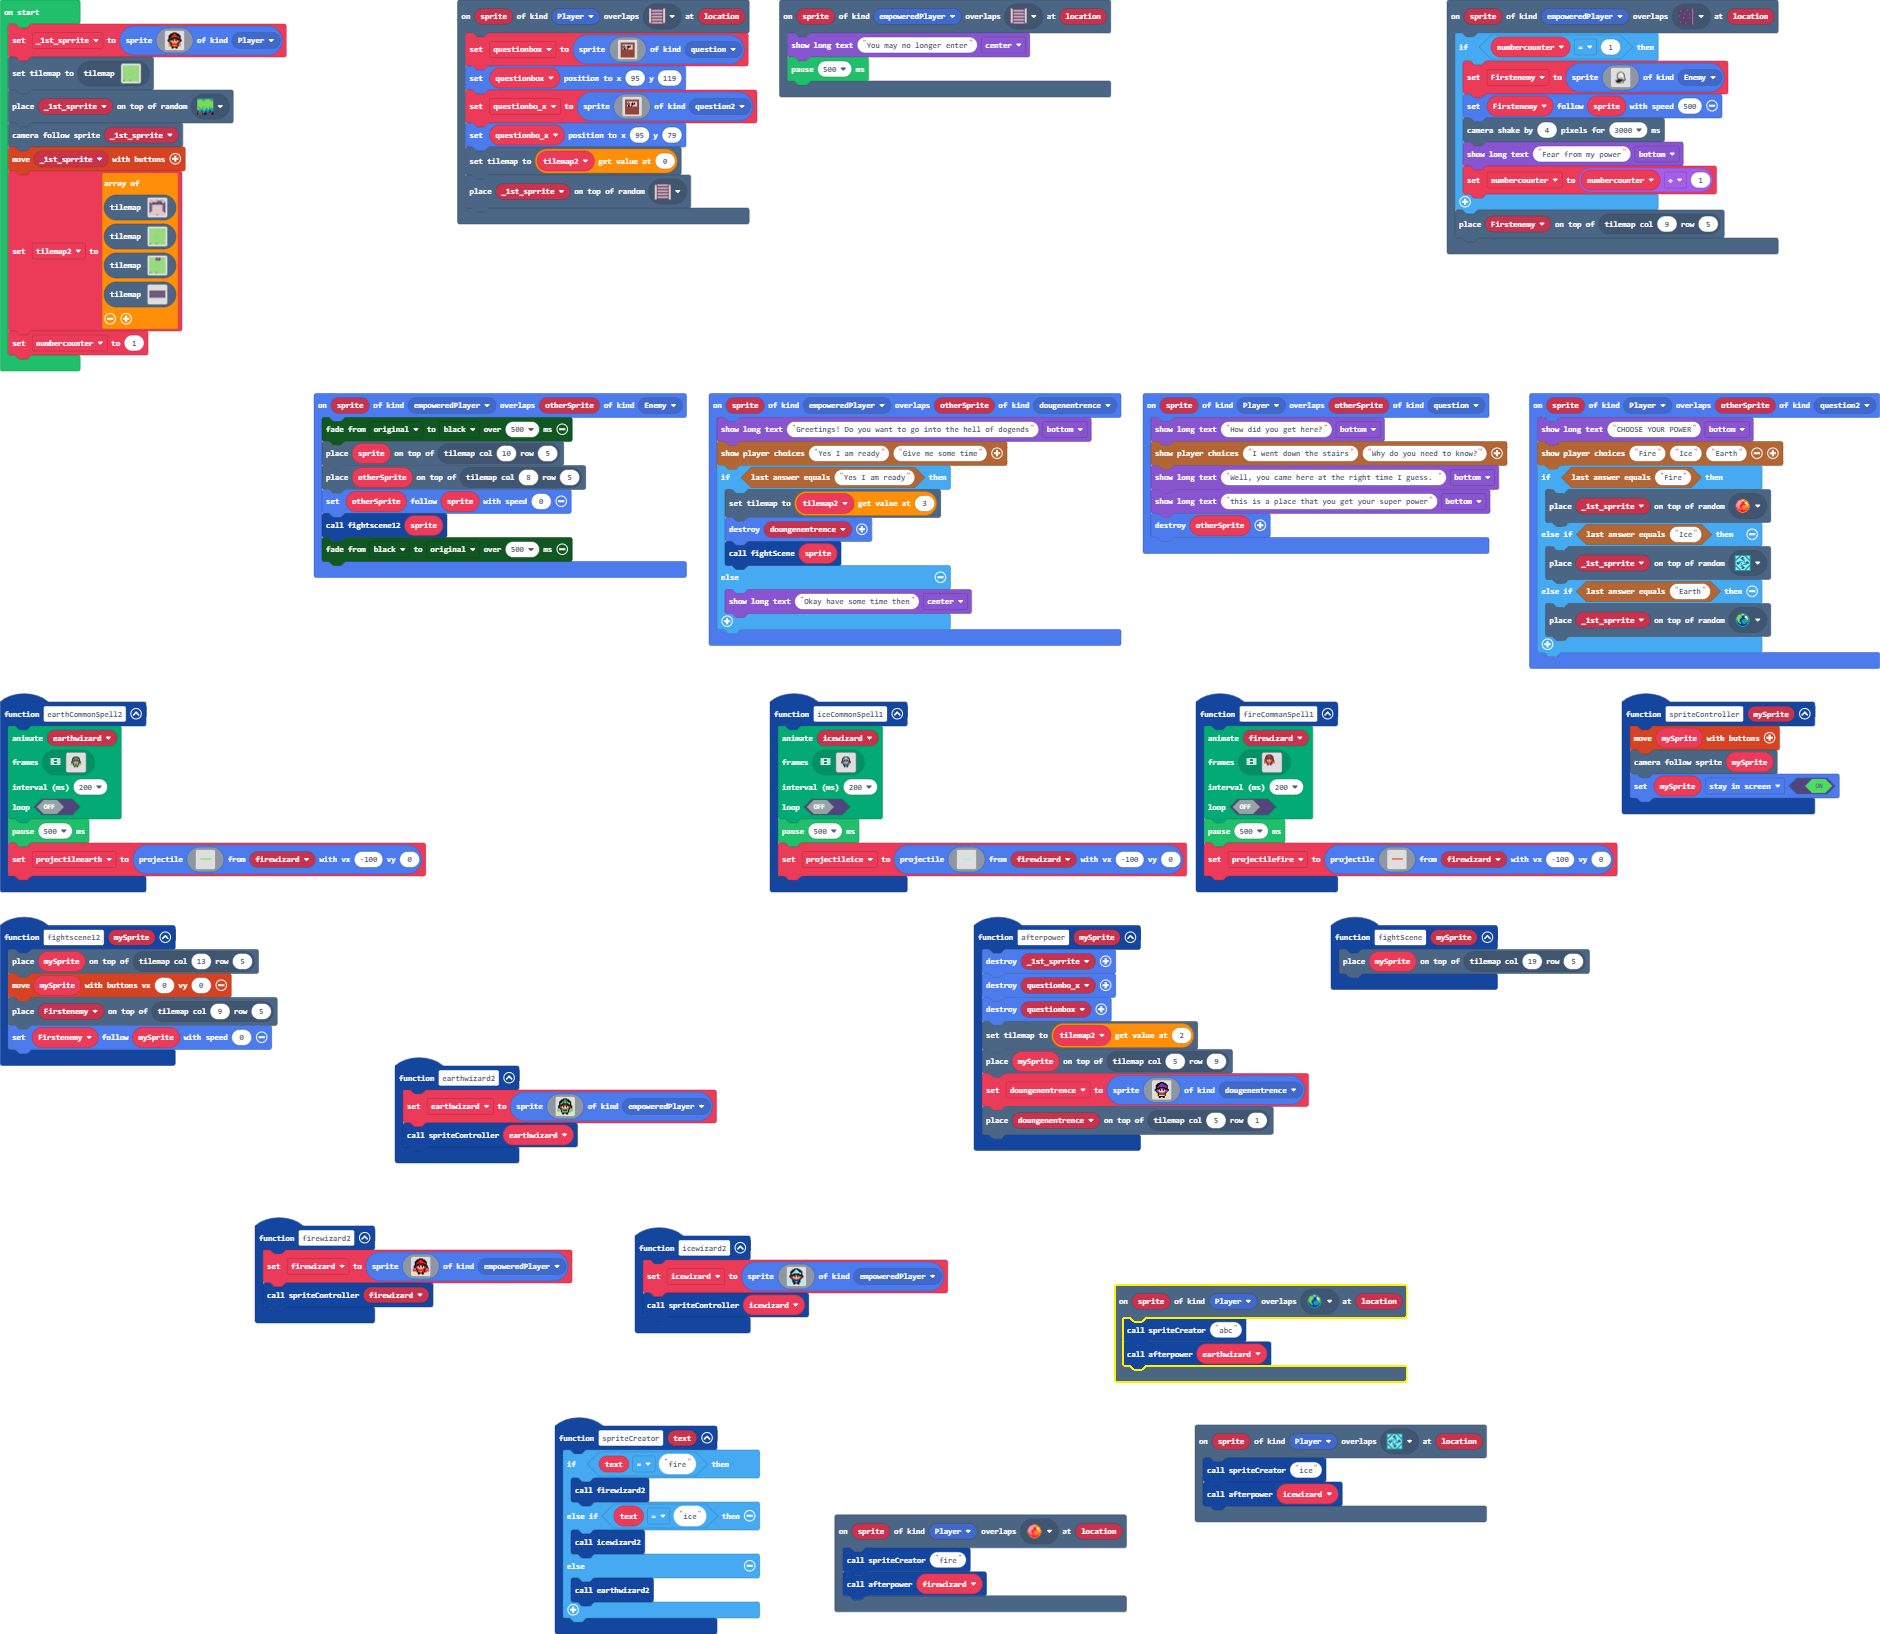
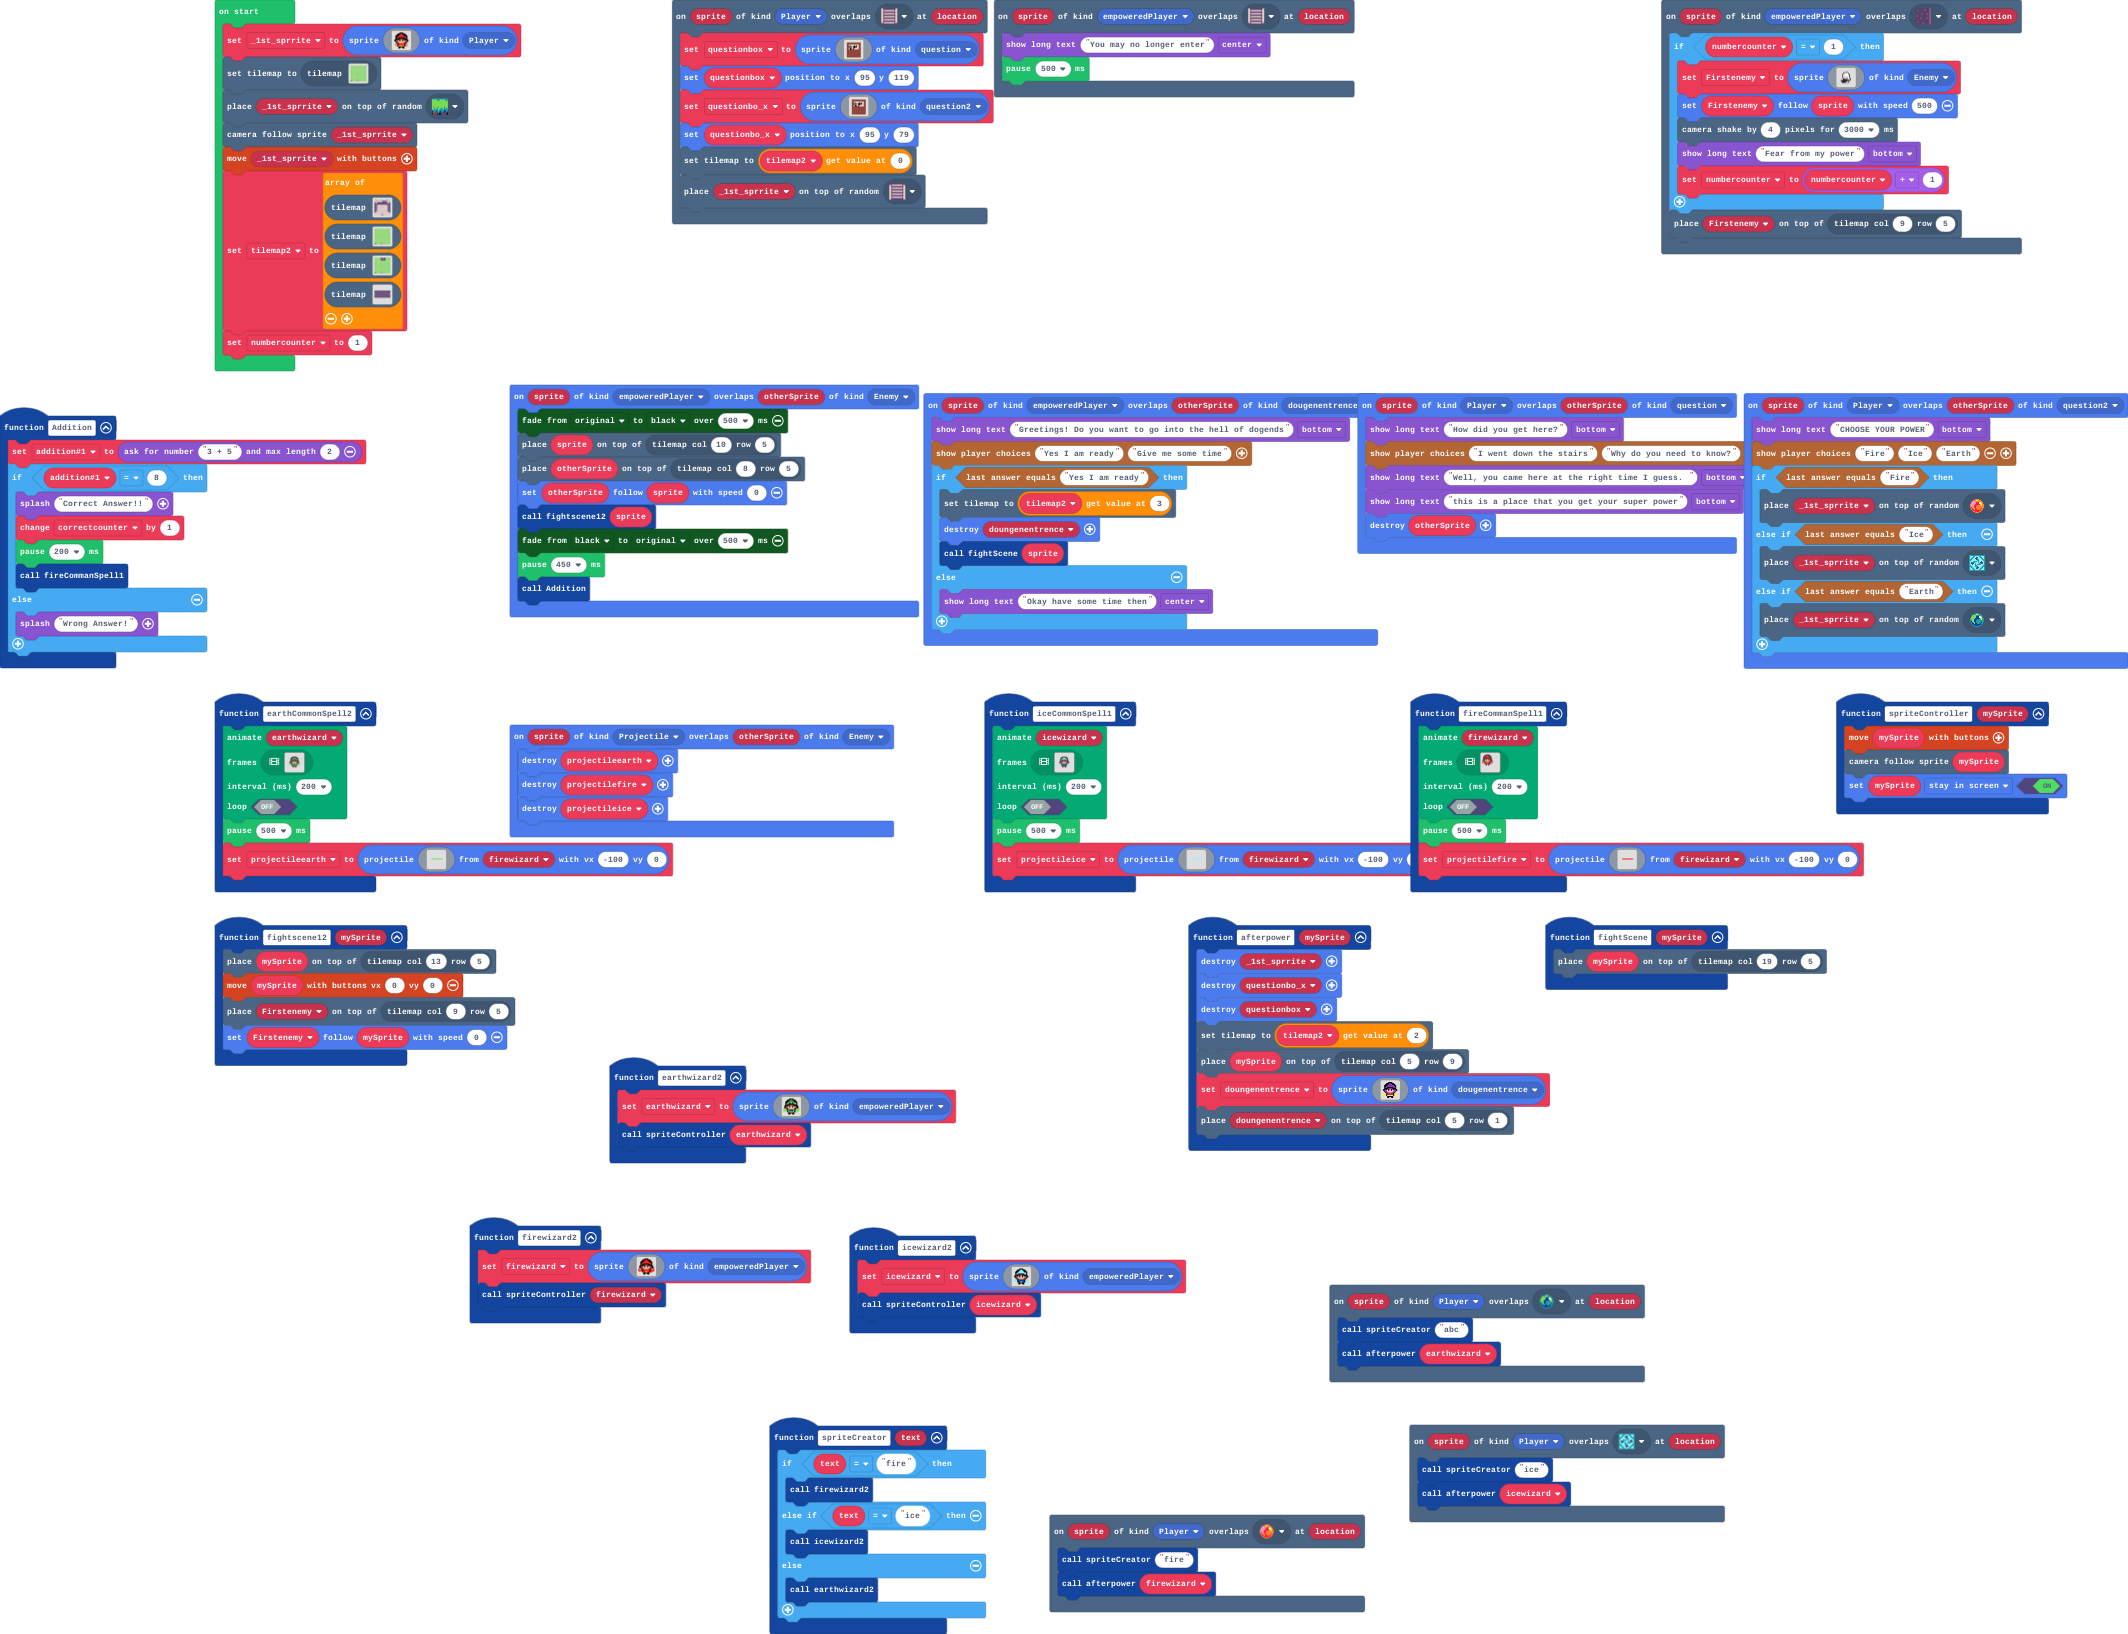
Update pxt.json, main.blocks, main.ts

diff --git a/main.ts b/main.ts
@@ -317,7 +317,20 @@ sprites.onOverlap(SpriteKind.empoweredPlayer, SpriteKind.Enemy, function (sprite
     otherSprite.follow(sprite, 0)
     fightscene12(sprite)
     color.startFade(color.Black, color.originalPalette, 500)
+    pause(450)
+    Addition()
 })
+function Addition () {
+    addition1 = game.askForNumber("3 + 5", 2)
+    if (addition1 == 8) {
+        game.splash("Correct Answer!!")
+        correctcounter += 1
+        pause(200)
+        fireCommanSpell1()
+    } else {
+        game.splash("Wrong Answer!")
+    }
+}
 scene.onOverlapTile(SpriteKind.Player, sprites.dungeon.collectibleBlueCrystal, function (sprite, location) {
     spriteCreator("abc")
     afterpower(earthwizard)
@@ -646,6 +659,11 @@ scene.onOverlapTile(SpriteKind.Player, sprites.dungeon.collectibleRedCrystal, fu
     spriteCreator("fire")
     afterpower(firewizard)
 })
+sprites.onOverlap(SpriteKind.Projectile, SpriteKind.Enemy, function (sprite, otherSprite) {
+    sprites.destroy(projectileearth)
+    sprites.destroy(projectilefire)
+    sprites.destroy(projectileice)
+})
 scene.onOverlapTile(SpriteKind.Player, sprites.dungeon.collectibleInsignia, function (sprite, location) {
     spriteCreator("ice")
     afterpower(icewizard)
@@ -856,6 +874,8 @@ let projectileice: Sprite = null
 let icewizard: Sprite = null
 let projectilefire: Sprite = null
 let Firstenemy: Sprite = null
+let correctcounter = 0
+let addition1 = 0
 let firewizard: Sprite = null
 let projectileearth: Sprite = null
 let earthwizard: Sprite = null
